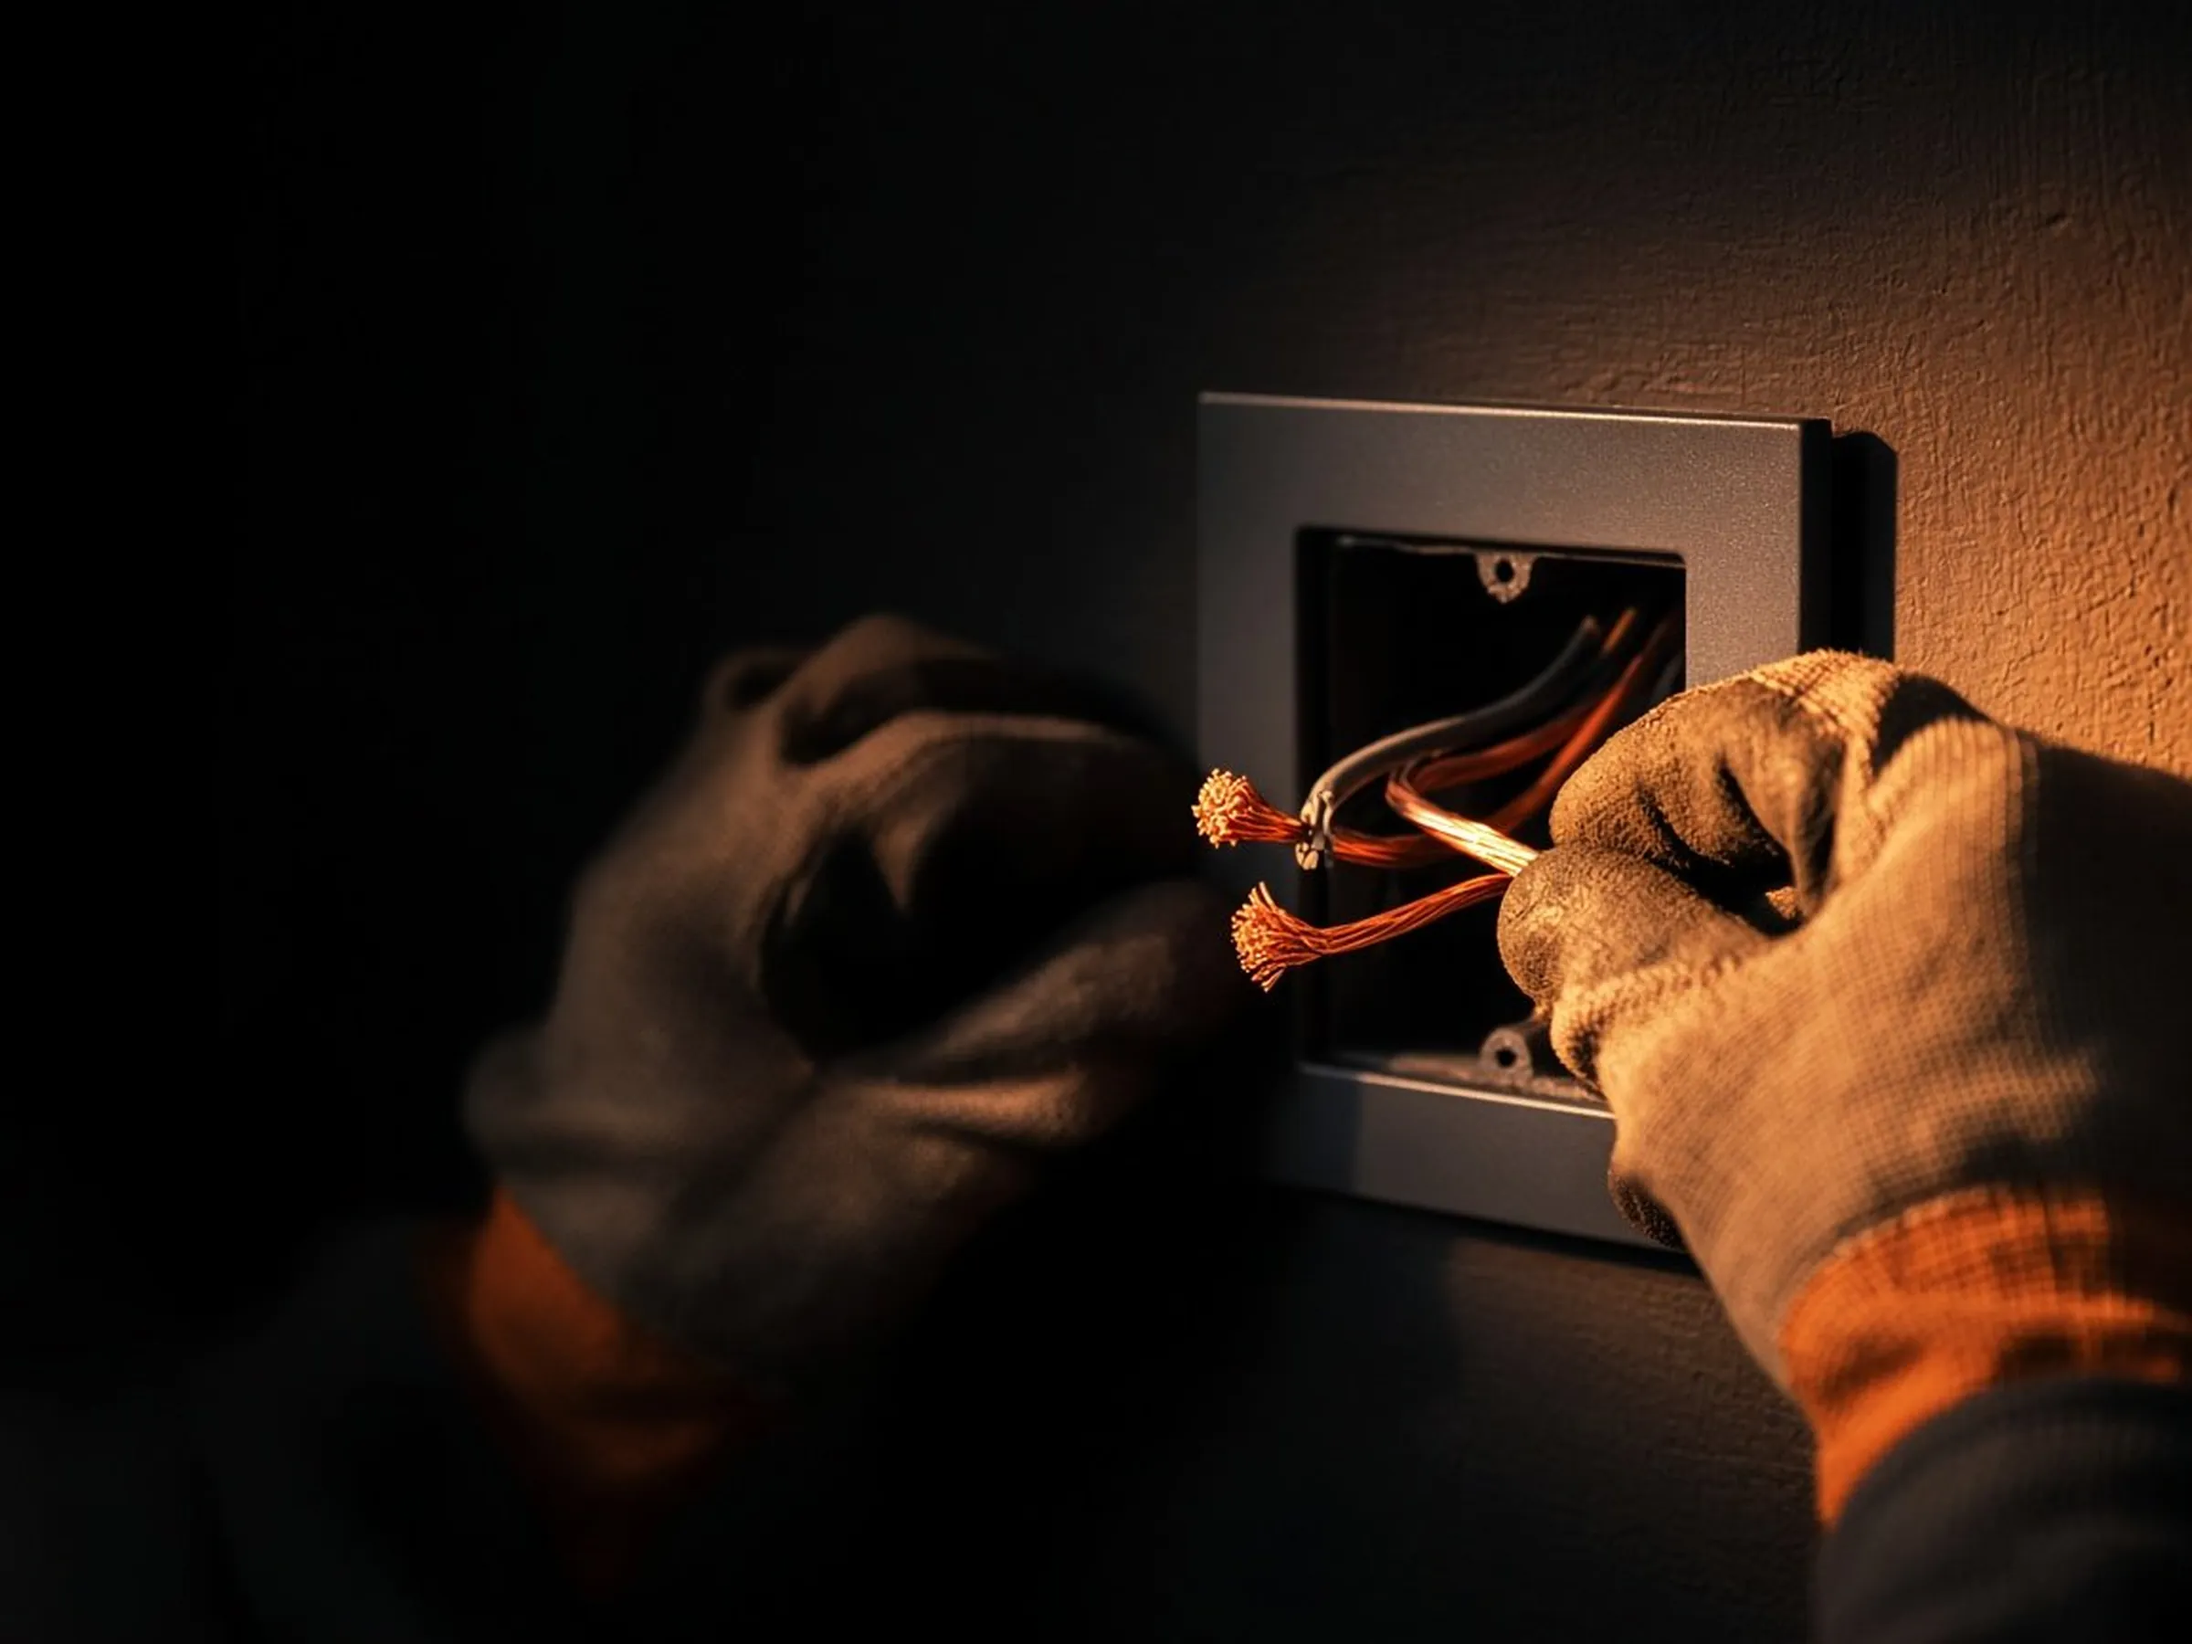
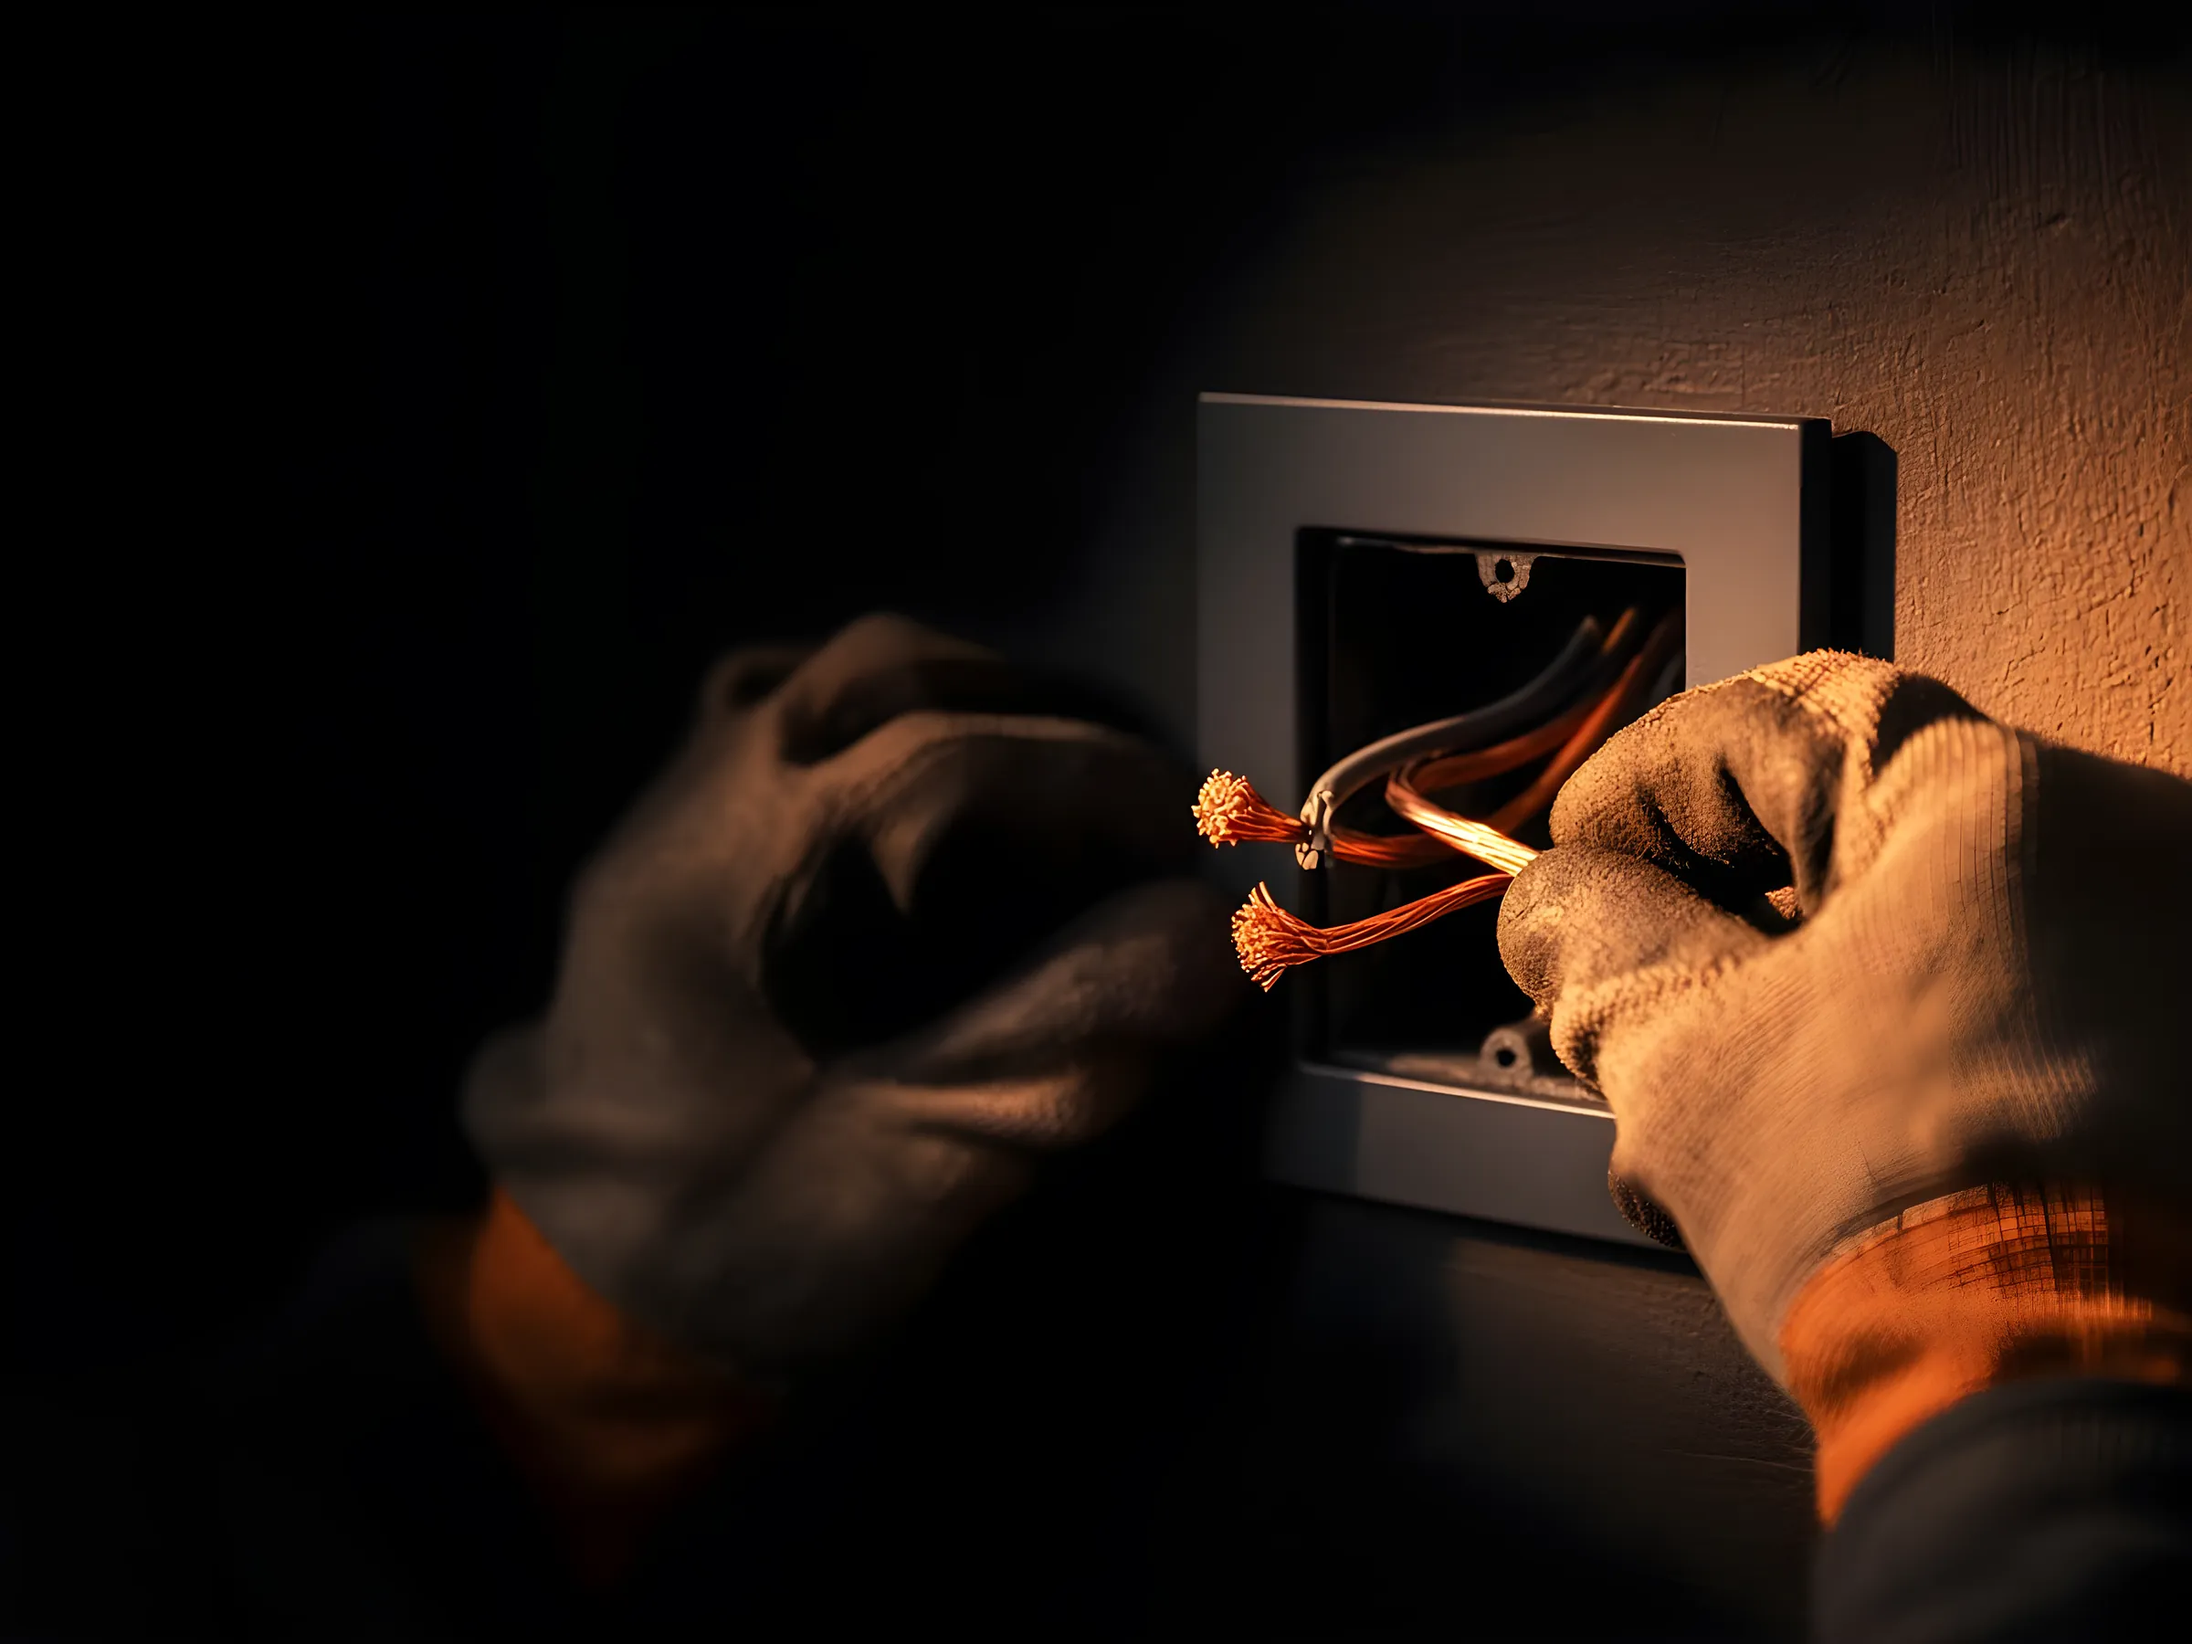
Swap in AI-upscaled photos, remove unused images
The six photos the page uses were upscaled 4x with Real-ESRGAN (x4plus) and
saved as WebP in a large size and a 1200px phone size. Removed all JPG copies
and the five unused v1 images (hero-night-house, svc-ev, svc-generator,
svc-panel, svc-repairs). assets/img goes from ~2.3MB to 0.86MB.

Claude-Session: https://claude.ai/code/session_0122Fu86g93JmCMEr3MUrH5U

diff --git a/assets/img/CREDITS.md b/assets/img/CREDITS.md
@@ -1,8 +1,7 @@
 # Asset credits (Brightwire Electric demo, v2)
 
 Images: all original generated images made Nov 10, 2026 for this local design sample, labeled "(generated sample image)" in alt text and "Sample" on the page. Not photos of a real home, client, job or product. Nothing taken from the Voltex/Lumith concept or from jkleinelectric.com.
-- v2 (warm): hero-room, warm-panel, warm-ev, warm-house, warm-outlet (.jpg + .webp)
-- reused from v1: svc-lighting (Recent work). Other v1 images remain in the folder but are unused.
+- In use: hero-room, warm-outlet, warm-panel, warm-ev, warm-house, svc-lighting. Each was upscaled 4x with Real-ESRGAN (x4plus) and saved as WebP in two sizes: name.webp (large) and name-sm.webp (1200px wide, for phones). Unused v1 images were removed.
 - The glowing bulb is an original inline SVG + CSS (no image file).
 
 Icons: Lucide (lucide.dev), ISC License, lucide-static 1.71.0. Outline variant inlined as SVG (cached in assets/lucide-icons.json). No CDN.
